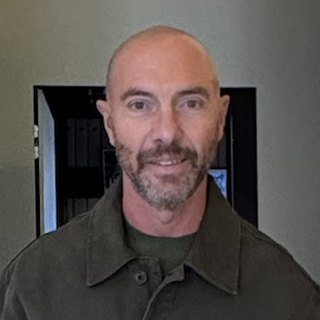
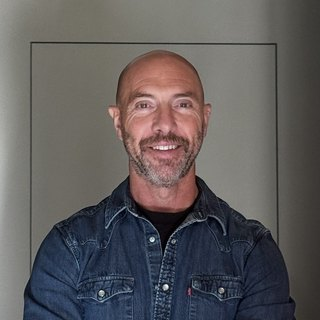
Nuova foto profilo nel Chi sono
Claude-Session: https://claude.ai/code/session_019ji4t54fKkvyKVG8fCSHt1

diff --git a/index.html b/index.html
@@ -273,7 +273,7 @@ footer .wrap{display:flex;justify-content:space-between;gap:12px;flex-wrap:wrap}
       <div class="sec-head"><h2>Chi sono</h2></div>
       <div class="about-grid">
       <div class="about">
-        <div class="me"><img src="img/massimo-de-masi.jpg?v=2" alt="Ing. Massimo De Masi"><div><b>Ing. Massimo De Masi</b><span class="label">Ingegnere meccanico</span></div></div>
+        <div class="me"><img src="img/massimo-de-masi.jpg?v=3" alt="Ing. Massimo De Masi"><div><b>Ing. Massimo De Masi</b><span class="label">Ingegnere meccanico</span></div></div>
         <p class="lead">Massimo De Masi, Ingegnere meccanico. Progetto soluzioni per impianti meccanici, elettrici, acustici e antincendio, per aziende, privati e pubbliche amministrazioni.</p>
         <p>Seguo i progetti dal loro concepimento alla messa in funzione, curando in particolare l'integrazione tra i diversi impianti per ottenere la massima efficienza.</p>
         <div class="story">
